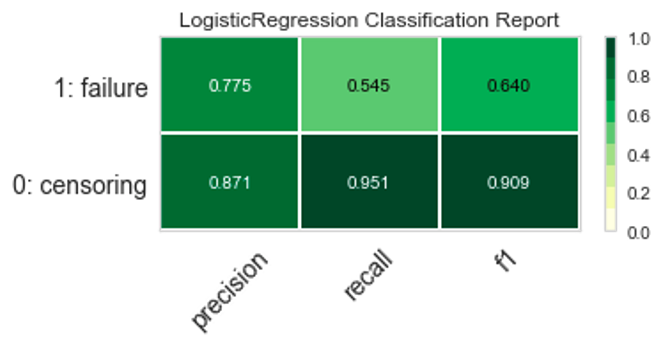
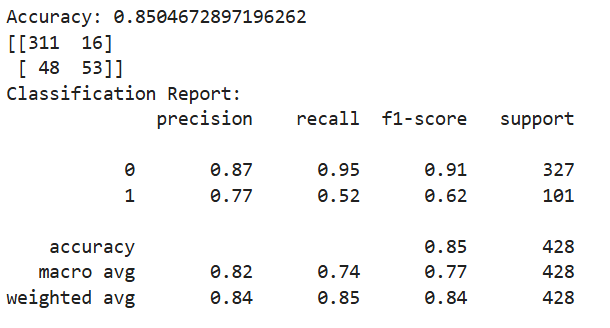
add

diff --git a/AIDS_treatments/README.md b/AIDS_treatments/README.md
@@ -70,7 +70,17 @@ Trt: treatment indicator <br>
 
 ### Dropped duplicated columns and encoded categorical variables
 
-![image.png](/AIDS_treatments/Images/aids4.png)
+
+```python
+# encode categorical variables, drop unrelated or duplicated features 
+
+df1 = pd.get_dummies(df, columns=[‘trt’, ‘strat’]) 
+
+# dropped duplicated columns
+
+df1 = df1.drop([‘treat’,’str2′], axis=1)
+```
+<br>
 
 ### Feature scaling and feature selection
 <p> Most of our input variables are binary and categorical, and the output variable is also binary. Hence, we selected the chi-squared statistical test for feature selection.
@@ -104,8 +114,33 @@ Trt: treatment indicator <br>
 
 <br>
 
-![image.png](/AIDS_treatments/Images/aids6.png)
+```python
+# Feature scaling
+from sklearn.preprocessing import StandardScaler
 
+# Initialize the StandardScaler
+scaler = StandardScaler()
+
+# Fit the scaler on the training data and transform both the training and testing data
+X_train_scaled = scaler.fit_transform(X_train)
+X_test_scaled = scaler.transform(X_test)
+
+from sklearn.linear_model import LogisticRegression
+
+log_reg = LogisticRegression(penalty='l1', solver='liblinear', max_iter=1000) 
+log_reg.fit(X_train_scaled, y_train)
+
+# Make predictions
+y_pred = log_reg.predict(X_test_scaled)
+
+# Evaluate the model
+accuracy = accuracy_score(y_test, y_pred)
+print("Accuracy:", accuracy)
+print(confusion_matrix(y_test, y_pred))
+print("Classification Report:")
+print(classification_report(y_test, y_pred))
+```
+<br>
 
 ### Logistic Regression Evaluation
 
